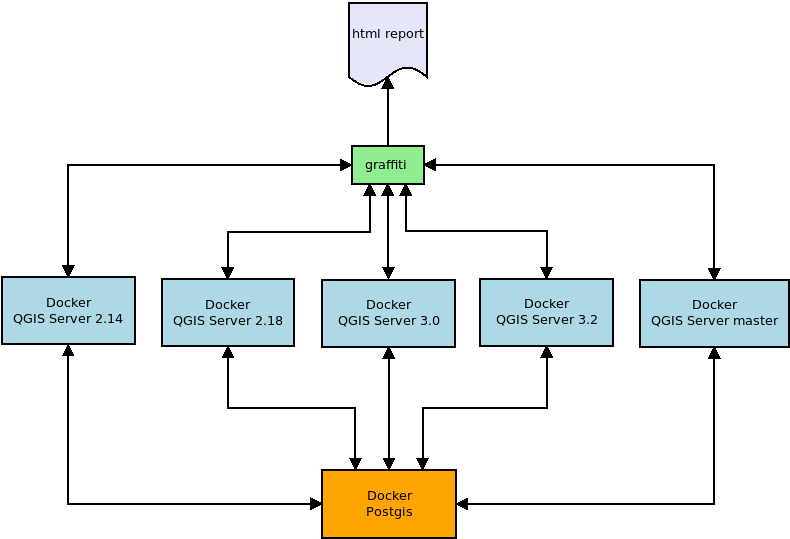
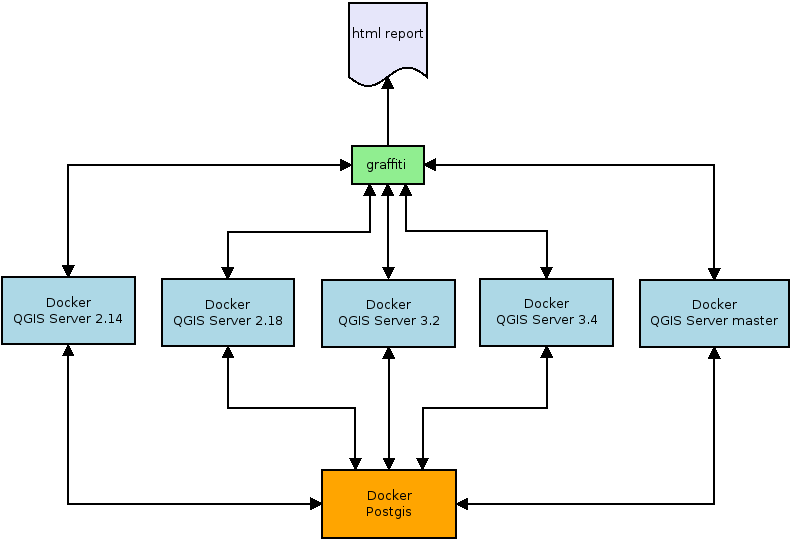
Update readme

diff --git a/README.md b/README.md
@@ -5,7 +5,7 @@ assessing the performance of [QGIS Server](https://github.com/qgis/QGIS).
 
 The repo includes:
 
-- Dockerfiles for building and executing QGIS Server 2.14, 2.18, 3.0, 3.2 and Master
+- Dockerfiles for building and executing QGIS Server 2.14, 2.18, 3.2, 3.4 and Master
 - A Dockerfile for PostGIS and test data
 - Ansible scripts for remote deployment
 - some tests to generate a HTML report with [Graffiti](https://github.com/pblottiere/graffiti)
@@ -118,13 +118,13 @@ without adding/updating a QGIS Server instance, you may:
 
 If you just want to add a QGIS Server instance with some specific configuration
 based on environment variables, you can take a look at the `docker-compose.yml`
-file. For example, if you want to add a QGIS Server 3.0 instance with 8 cores
+file. For example, if you want to add a QGIS Server 3.4 instance with 8 cores
 to test the parallel rendering:
 
 ```
-  qgis-3.0-parallel-rendering-8-cores:
-    container_name: qgisserver-perfsuite-3.0-parallel-rendering-8-cores
-    image: qgisserver-perfsuite/3.0
+  qgis-3.4-parallel-rendering-8-cores:
+    container_name: qgisserver-perfsuite-3.4-parallel-rendering-8-cores
+    image: qgisserver-perfsuite/3.4
     volumes:
       - ./data:/data
     links:
